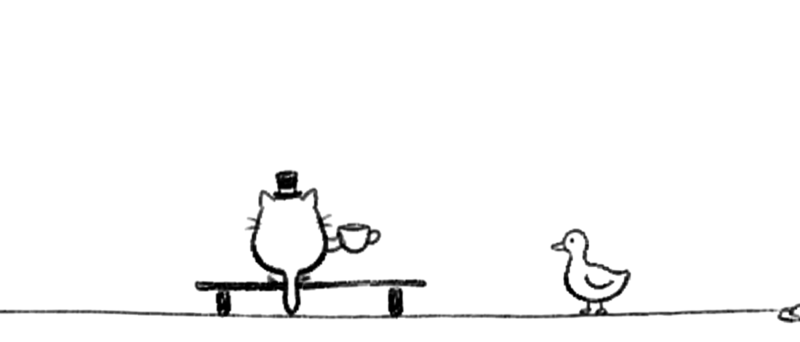
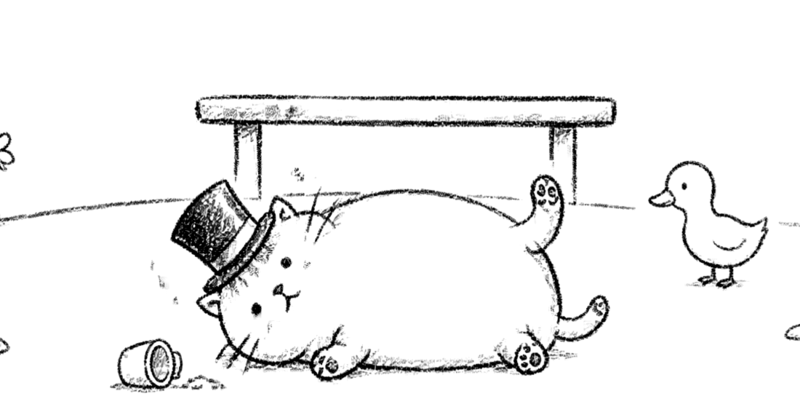
Turn footer cat into a seg-fault gag

diff --git a/src/styles/global.css b/src/styles/global.css
@@ -705,26 +705,28 @@ kbd {
   width: 100%;
 }
 
-.segfault-message {
+.segfault-label {
   background: var(--ink);
   color: var(--paper-light);
-  font-size: 0.62rem;
+  font-size: clamp(0.58rem, 1.1vw, 0.78rem);
+  font-weight: 700;
+  letter-spacing: 0.06em;
   left: 50%;
-  opacity: 0;
-  padding: 0.18rem 0.4rem;
+  padding: 0.2rem 0.48rem;
   pointer-events: none;
   position: absolute;
-  top: 56%;
-  transform: translate(-50%, -50%);
+  top: 79%;
+  transform: translate(-50%, -50%) rotate(-4deg);
   white-space: nowrap;
+  z-index: 2;
 }
 
 .footer-scene.is-faulting .footer-art {
   animation: footer-fault 760ms steps(1, end) both;
 }
 
-.footer-scene.is-faulting .segfault-message {
-  animation: fault-message 760ms steps(1, end) both;
+.footer-scene.is-faulting .segfault-label {
+  animation: fault-label 760ms steps(1, end) both;
 }
 
 @keyframes footer-fault {
@@ -736,9 +738,10 @@ kbd {
   60% { clip-path: inset(0); transform: translateX(1px); }
 }
 
-@keyframes fault-message {
-  0%, 18%, 100% { opacity: 0; }
-  19%, 72% { opacity: 1; }
+@keyframes fault-label {
+  0%, 12%, 72%, 100% { opacity: 1; transform: translate(-50%, -50%) rotate(-4deg); }
+  13%, 36% { opacity: 0; transform: translate(calc(-50% + 5px), -50%) rotate(-2deg); }
+  24%, 48% { opacity: 1; transform: translate(calc(-50% - 4px), -50%) rotate(-6deg); }
 }
 
 .footer-meta {
@@ -819,6 +822,11 @@ kbd {
   .about-avatar {
     width: 125px;
   }
+
+  .segfault-label {
+    left: 52%;
+    top: 69%;
+  }
 }
 
 @media (max-width: 480px) {
@@ -879,7 +887,7 @@ kbd {
     animation: none;
   }
 
-  .footer-scene.is-faulting .segfault-message {
+  .footer-scene.is-faulting .segfault-label {
     animation: none;
     opacity: 1;
   }
